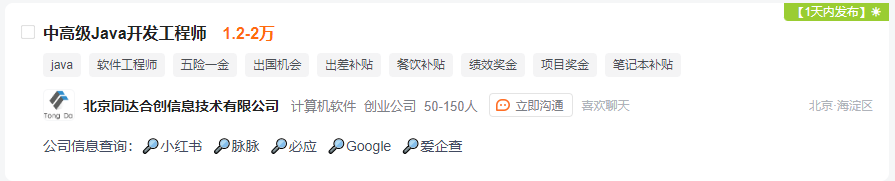
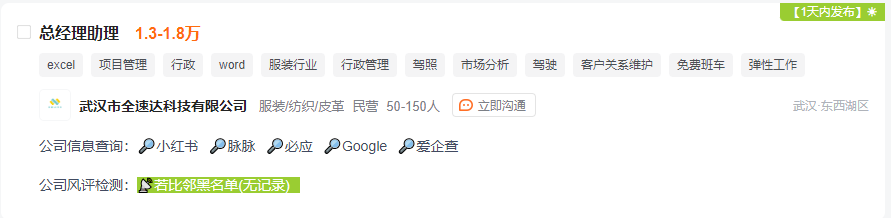
feat: ruobilin backlist check

diff --git a/script.user.js b/script.user.js
@@ -1,7 +1,7 @@
 // ==UserScript==
 // @name         job-hunting
 // @namespace    https://github.com/lastsunday/job-hunting-tampermonkey/
-// @version      1.0.0
+// @version      1.1.0
 // @description  协助找工作，方便职位的浏览
 // @author       lastsunday
 // @license      MIT
@@ -9,8 +9,14 @@
 // @match        https://www.zhipin.com/web/geek/job*
 // @match        https://sou.zhaopin.com/*
 // @match        https://www.lagou.com/wn/*
+// @connect      kjxb.org
+// @grant        GM_xmlhttpRequest
+// @grant        unsafeWindow
+// @compatible   firefox Tampermonkey
+// @compatible   chrome Tampermonkey
+// @compatible   edge Tampermonkey
 // @icon         https://www.google.com/s2/favicons?sz=64&domain=tampermonkey.net.cn
-// @grant        none
+// @require      https://unpkg.com/jquery
 // @require      https://cdn.jsdelivr.net/npm/dayjs@1/dayjs.min.js
 // ==/UserScript==
 
@@ -1078,7 +1084,8 @@ function isOutsource(brandName) {
 }
 
 ;(function () {
-    if ( typeof window.CustomEvent === "function" ) return false;
+    console.log("[setup] CustomEvent")
+    if ( typeof window.unsafeWindow.CustomEvent === "function" ) return false;
 
     function CustomEvent ( event, params ) {
         params = params || { bubbles: false, cancelable: false, detail: undefined };
@@ -1086,24 +1093,25 @@ function isOutsource(brandName) {
         evt.initCustomEvent( event, params.bubbles, params.cancelable, params.detail );
         return evt;
     }
-    CustomEvent.prototype = window.Event.prototype;
-    window.CustomEvent = CustomEvent;
+    CustomEvent.prototype = window.unsafeWindow.Event.prototype;
+    window.unsafeWindow.CustomEvent = CustomEvent;
 
 })();
 (function() {
     'use strict';
-
+    console.log("[setup] appcss")
     let appStyleTag = document.createElement("style");
     appStyleTag.innerHTML=appCss;
     document.getElementsByTagName("head")[0].appendChild(appStyleTag);
 
+    console.log("[setup] ajax proxy")
     //拦截Ajax
     function ajaxEventTrigger(event) {
         let ajaxEvent = new CustomEvent(event, { detail: this });
-        window.dispatchEvent(ajaxEvent);
+        window.unsafeWindow.dispatchEvent(ajaxEvent);
     }
 
-    let oldXHR = window.XMLHttpRequest;
+    let oldXHR = window.unsafeWindow.XMLHttpRequest;
     if(!oldXHR) return console.error('不支持 XMLHttpRequest！ 请更换最新的 chrome 浏览器')
 
     function newXHR() {
@@ -1143,9 +1151,8 @@ function isOutsource(brandName) {
         return realXHR;
     }
     newXHR.prototype = oldXHR.prototype;
-    window.XMLHttpRequest = newXHR;
-
-    window.addEventListener("ajaxGetData", function (e) {
+    window.unsafeWindow.XMLHttpRequest = newXHR;
+    window.unsafeWindow.addEventListener("ajaxGetData", function (e) {
         const data = e?.detail;
         if (!data) return;
         const responseURL = data?.responseURL;
@@ -1174,7 +1181,7 @@ function isOutsource(brandName) {
         }
     });
 
-    window.addEventListener("proxyScriptLoaded", async function (e) {
+    window.unsafeWindow.addEventListener("proxyScriptLoaded", async function (e) {
         if (location.host === "sou.zhaopin.com") {
             // 智联招聘首次打开
             const data = e?.detail?.zhipin?.initialState;
@@ -1189,7 +1196,7 @@ function isOutsource(brandName) {
 
     });
     // 监听页面的ajax
-    window.addEventListener("ajaxReadyStateChange",function(e){
+    window.unsafeWindow.addEventListener("ajaxReadyStateChange",function(e){
         let xhr = e.detail;
         const data = {
             response: xhr?.response,
@@ -1203,10 +1210,11 @@ function isOutsource(brandName) {
         if(xhr?.readyState == 4 && xhr?.status == 200){
             // 直接给 xhr，app.js 收不到。
             let event = new CustomEvent('ajaxGetData', { detail: data });
-            window.dispatchEvent(event);
+            window.unsafeWindow.dispatchEvent(event);
         }
     })
 
+    console.log("[setup] util")
     //util
     // 转换时间
     function convertTimeToHumanReadable(dateTime) {
@@ -1326,7 +1334,23 @@ function isOutsource(brandName) {
         return !str || /^\s*$/.test(str);
     }
 
+    function makeGetRequest(url, method = 'GET', data = null) {
+        return new Promise((resolve, reject) => {
+            GM_xmlhttpRequest({
+                url: url,
+                method: method,
+                data: data,
+                onload: function (response) {
+                    resolve(response);
+                },
+                onerror: function (error) {
+                    reject(error);
+                },
+            });
+        });
+    }
 
+    console.log("[setup] common")
     //common
     const JOB_STATUS_DESC_NEWEST = { key: "最新", label: "最新", order: 0 };
     const JOB_STATUS_DESC_RECRUITING = {
@@ -1342,6 +1366,7 @@ function isOutsource(brandName) {
     const PLATFORM_LAGOU = "LAGOU";
     const PLATFORM_JOBSDB = "JOBSDB";
 
+    console.log("[setup] common render")
     //common render
     function renderTimeTag(
     divElement,
@@ -1592,6 +1617,7 @@ function isOutsource(brandName) {
             functionPanelDiv.classList.add(`__${platform}_function_panel`);
             targetDom.append(functionPanelDiv);
             functionPanelDiv.appendChild(createSearchCompanyLink(item.jobCompanyName));
+            functionPanelDiv.appendChild(createCompanyReputation(item.jobCompanyName));
         });
     }
 
@@ -1603,36 +1629,112 @@ function isOutsource(brandName) {
         labelDiv.innerHTML = "公司信息查询：";
         dom.appendChild(labelDiv);
         dom.appendChild(
-            createATag(
+            createATagWithSearch(
                 `https://www.xiaohongshu.com/search_result?keyword=${decode}`,
                 "小红书"
             )
         );
         dom.appendChild(
-            createATag(
+            createATagWithSearch(
                 `https://maimai.cn/web/search_center?type=feed&query=${decode}&highlight=true`,
                 "脉脉"
             )
         );
         dom.appendChild(
-            createATag(`https://www.bing.com/search?q=${decode}`, "必应")
+            createATagWithSearch(`https://www.bing.com/search?q=${decode}`, "必应")
         );
         dom.appendChild(
-            createATag(`https://www.google.com/search?q=${decode}`, "Google")
+            createATagWithSearch(`https://www.google.com/search?q=${decode}`, "Google")
         );
         dom.appendChild(
-            createATag(`https://aiqicha.baidu.com/s?q=${decode}`, "爱企查")
+            createATagWithSearch(`https://aiqicha.baidu.com/s?q=${decode}`, "爱企查")
         );
         return dom;
     }
 
-    function createATag(url, label) {
+    function createCompanyReputation(keyword) {
+        const dom = document.createElement("div");
+        dom.className = "__company_info_search";
+        let labelDiv = document.createElement("div");
+        labelDiv.innerHTML = "公司风评检测：";
+        dom.appendChild(labelDiv);
+        const ruobilinDiv = document.createElement("div");
+        dom.appendChild(ruobilinDiv);
+        asyncRenderRuobilin(ruobilinDiv, keyword);
+        return dom;
+    }
+
+    async function asyncRenderRuobilin(div, keyword) {
+        div.title = "信息来源:跨境小白网（若比邻网）https://kjxb.org/"
+        const decode = encodeURIComponent(keyword);
+        const url = `https://kjxb.org/?s=${decode}&post_type=question`;
+        const loaddingTag = createATag("📡", url, "若比邻黑名单(检测中⌛)",(event) => {
+            clearAllChildNode(div);
+            asyncRenderRuobilin(div, keyword);
+        });
+        div.appendChild(loaddingTag);
+        renderRuobilinColor(loaddingTag, "black");
+        try {
+            const result = await makeGetRequest(url);
+            let hyperlinks = $(result.responseText).find(".ap-questions-hyperlink");
+            clearAllChildNode(div);
+            if (hyperlinks && hyperlinks.length > 0) {
+                //存在于若比邻黑名单
+                const count = hyperlinks.length;
+                let tag = createATag("📡", url, `若比邻黑名单(疑似${count}条记录)`);
+                div.appendChild(tag);
+                renderRuobilinColor(tag, "red");
+            } else {
+                //不存在
+                let tag = createATag("📡", url, "若比邻黑名单(无记录)");
+                div.appendChild(tag);
+                renderRuobilinColor(tag, "yellowgreen");
+            }
+        } catch (e) {
+            console.error(e);
+            clearAllChildNode(div);
+            const errorDiv = createATag(
+                "📡",
+                url,
+                "若比邻黑名单(检测失败，点击重新检测)",
+                (event) => {
+                    clearAllChildNode(div);
+                    asyncRenderRuobilin(div, keyword);
+                }
+            );
+            errorDiv.href = "javaScript:void(0);";
+            errorDiv.target = "";
+            div.appendChild(errorDiv);
+            renderRuobilinColor(errorDiv, "black");
+        }
+    }
+
+    function clearAllChildNode(div){
+        div.innerHTML = "";
+    }
+
+    function renderRuobilinColor(div, color) {
+        div.style = `background-color:${color};color:white`;
+    }
+
+    function clearRuobilinColor(div) {
+        div.style = null;
+    }
+
+    function createATagWithSearch(url, label) {
+        return createATag("🔎", url, label);
+    }
+
+    function createATag(emoji, url, label, callback) {
         let aTag = document.createElement("a");
         aTag.href = url;
         aTag.target = "_blank";
         aTag.ref = "noopener noreferrer";
-        aTag.text = "🔎" + label;
+        aTag.text = emoji + label;
         aTag.addEventListener("click", (event) => {
+            if (callback) {
+                callback(event);
+            }
             event.stopPropagation();
         });
         return aTag;
@@ -1683,6 +1785,7 @@ function isOutsource(brandName) {
         }
         return offsetTime;
     }
+    console.log("[setup] data handle")
     //data handle
 
     class Job{
@@ -2062,6 +2165,7 @@ function isOutsource(brandName) {
         return jobs;
     }
 
+    console.log("[setup] handler")
     //handler
     const handler = {
         job51:{
@@ -2591,13 +2695,14 @@ function isOutsource(brandName) {
 ;(function() {
     // 由于注入脚本的时候 DOMContentLoaded 已经触发，监听不到
     // proxy 脚本已加载，发送事件
+    console.log("[setup] CustomEvent proxyScriptLoaded")
     let event = new CustomEvent('proxyScriptLoaded', { detail: {
         zhipin: {
-            initialState: window.__INITIAL_STATE__
+            initialState: window.unsafeWindow.__INITIAL_STATE__
         },
         lagou: {
-            initialState: window.__NEXT_DATA__
+            initialState: window.unsafeWindow.__NEXT_DATA__
         }
     } });
-    window.dispatchEvent(event);
+    window.unsafeWindow.dispatchEvent(event);
 })();

diff --git a/README.md b/README.md
@@ -24,7 +24,10 @@ https://github.com/lastsunday/job-hunting-tampermonkey
 
 1. 显示职位发布时间与自动排序(按职位发布时间,hr活跃时间（只支持BOSS）)。
 2. 快捷查询公司信息🔎。
+3. 自动检测公司风评📡，当前支持：若比邻黑名单。
 
 ## Thanks
 
-1. https://github.com/tangzhiyao/boss-show-time
+1. https://github.com/tangzhiyao/boss-show-time ***boss 直聘时间展示插件***
+2. https://github.com/iibeibei/tampermonkey_scripts ***BOSS 直聘 跨境黑名单***
+3. https://kjxb.org/ ***【跨境小白网】，跨境电商人的职场交流社区，互助网站。***

diff --git a/CHANGELOG.md b/CHANGELOG.md
@@ -1,5 +1,11 @@
 # CHANGELOG
 
+## WIP
+
+### ⭐ Added
+
+1. 自动检测公司风评📡，当前实现：若比邻黑名单。
+
 ## 1.0.0 (2024-06-17)
 
 ### ⭐ Added
